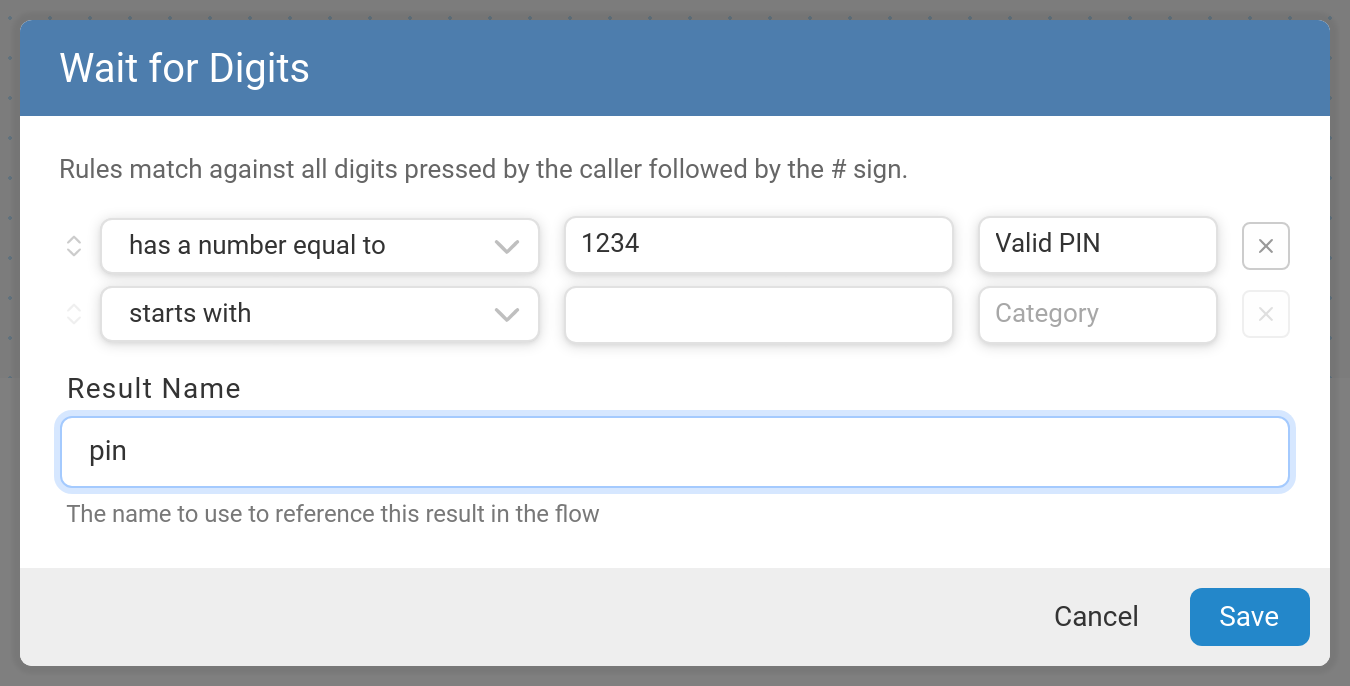
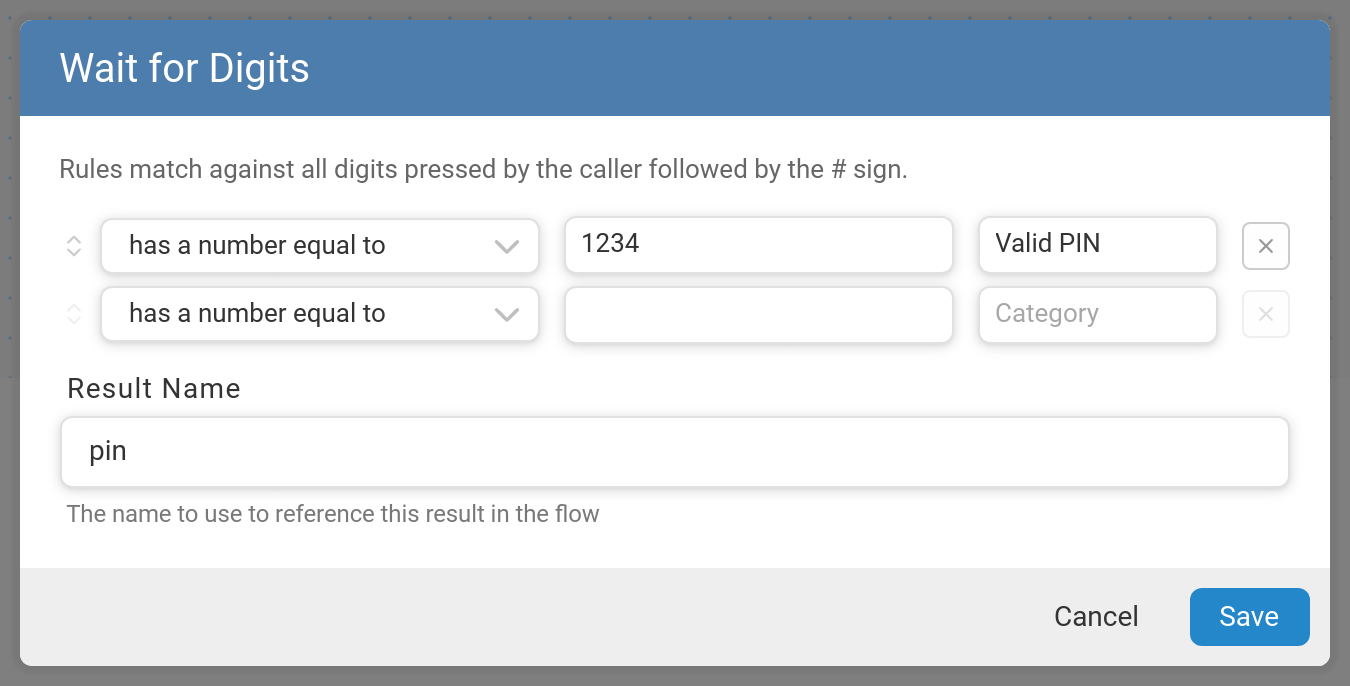
Default new rules to operator of last rule with operands (#925)
* Default new rules to operator of last rule with operands

When adding a new rule in the rule editor, default the operator to the operator of the most recent rule that has at least one operand. If no such rule exists, default to the first available operator. Also fix array editor to preserve empty item data when editing fields.

Changed region(s): [[0.0311, 0.5816, 0.9644, 0.7347], [0.0933, 0.4286, 0.28, 0.4898]]

diff --git a/src/form/ArrayEditor.ts b/src/form/ArrayEditor.ts
@@ -25,6 +25,9 @@ export class TembaArrayEditor extends BaseListEditor<ListItem> {
   @property({ type: Function })
   isEmptyItemFn?: (item: any) => boolean;
 
+  @property({ type: Function })
+  createEmptyItemFn?: (items: any[]) => any;
+
   @property({ type: Boolean })
   sortable = false;
 
@@ -331,6 +334,9 @@ export class TembaArrayEditor extends BaseListEditor<ListItem> {
   }
 
   createEmptyItem(): ListItem {
+    if (this.createEmptyItemFn) {
+      return this.createEmptyItemFn(this._items);
+    }
     return {};
   }
 
@@ -339,6 +345,8 @@ export class TembaArrayEditor extends BaseListEditor<ListItem> {
     fieldName: string,
     newValue: any
   ) {
+    // Use displayItems so the empty row's pre-filled data (e.g. operator) is preserved
+    const sourceItems = this.displayItems;
     let updatedItems: any[];
 
     if (this.onItemChange) {
@@ -346,10 +354,10 @@ export class TembaArrayEditor extends BaseListEditor<ListItem> {
         itemIndex,
         fieldName,
         newValue,
-        this._items
+        sourceItems
       );
     } else {
-      updatedItems = [...this._items];
+      updatedItems = [...sourceItems];
       updatedItems[itemIndex] = {
         ...updatedItems[itemIndex],
         [fieldName]: newValue
@@ -450,11 +458,10 @@ export class TembaArrayEditor extends BaseListEditor<ListItem> {
   }
 
   private computeFieldValue(
-    itemIndex: number,
+    item: ListItem,
     fieldName: string,
     config: FieldConfig
   ): any {
-    const item = this._items[itemIndex] || {};
     const currentValue = item[fieldName];
 
     if (config.computeValue) {
@@ -474,11 +481,12 @@ export class TembaArrayEditor extends BaseListEditor<ListItem> {
   }
 
   private renderArrayField(
+    item: ListItem,
     itemIndex: number,
     fieldName: string,
     config: FieldConfig
   ): TemplateResult {
-    const computedValue = this.computeFieldValue(itemIndex, fieldName, config);
+    const computedValue = this.computeFieldValue(item, fieldName, config);
 
     // Extract flavor from select config if available
     const flavor =
@@ -539,8 +547,7 @@ export class TembaArrayEditor extends BaseListEditor<ListItem> {
       let isVisible = true;
       if (config.conditions?.visible) {
         try {
-          const currentItem = this._items[index] || {};
-          isVisible = config.conditions.visible(currentItem);
+          isVisible = config.conditions.visible(item);
         } catch (error) {
           console.error(`Error checking visibility for ${fieldName}:`, error);
         }
@@ -561,7 +568,7 @@ export class TembaArrayEditor extends BaseListEditor<ListItem> {
               ? 'flex:none'
               : 'flex:1'}"
           >
-            ${this.renderArrayField(index, fieldName, config)}
+            ${this.renderArrayField(item, index, fieldName, config)}
           </div>
         `);
       }

diff --git a/src/flow/nodes/shared-rules.ts b/src/flow/nodes/shared-rules.ts
@@ -291,6 +291,26 @@ export const createRulesArrayConfig = (
   maintainEmptyItem: true,
   isEmptyItem: isEmptyRuleItem,
   onItemChange: createRuleItemChangeHandler(),
+  createEmptyItem: (items: any[]) => {
+    // Default to the last rule's operator that has at least one operand,
+    // falling back to the first operator option
+    const lastWithOperand = [...items]
+      .reverse()
+      .find((item) => {
+        const opValue = getOperatorValue(item.operator);
+        const config = opValue ? getOperatorConfig(opValue) : undefined;
+        return config && config.operands >= 1;
+      });
+
+    const opValue = lastWithOperand
+      ? getOperatorValue(lastWithOperand.operator)
+      : null;
+    const option = opValue
+      ? operatorOptions.find((o: any) => o.value === opValue)
+      : operatorOptions[0];
+
+    return option ? { operator: [{ ...option }] } : {};
+  },
   itemConfig: {
     ...createRulesItemConfig(),
     operator: {

diff --git a/src/form/FieldRenderer.ts b/src/form/FieldRenderer.ts
@@ -385,6 +385,7 @@ export class FieldRenderer {
         ?maintainEmptyItem="${config.maintainEmptyItem !== false}"
         .onItemChange="${config.onItemChange}"
         .isEmptyItemFn="${config.isEmptyItem}"
+        .createEmptyItemFn="${config.createEmptyItem}"
         class="${extraClasses}"
         style="${style}"
         @change="${onChange || (() => {})}"

diff --git a/src/flow/types.ts b/src/flow/types.ts
@@ -242,6 +242,7 @@ export interface ArrayFieldConfig extends BaseFieldConfig {
     allItems: any[]
   ) => any[];
   isEmptyItem?: (item: any) => boolean;
+  createEmptyItem?: (items: any[]) => any;
 }
 
 export interface CheckboxFieldConfig extends BaseFieldConfig {
